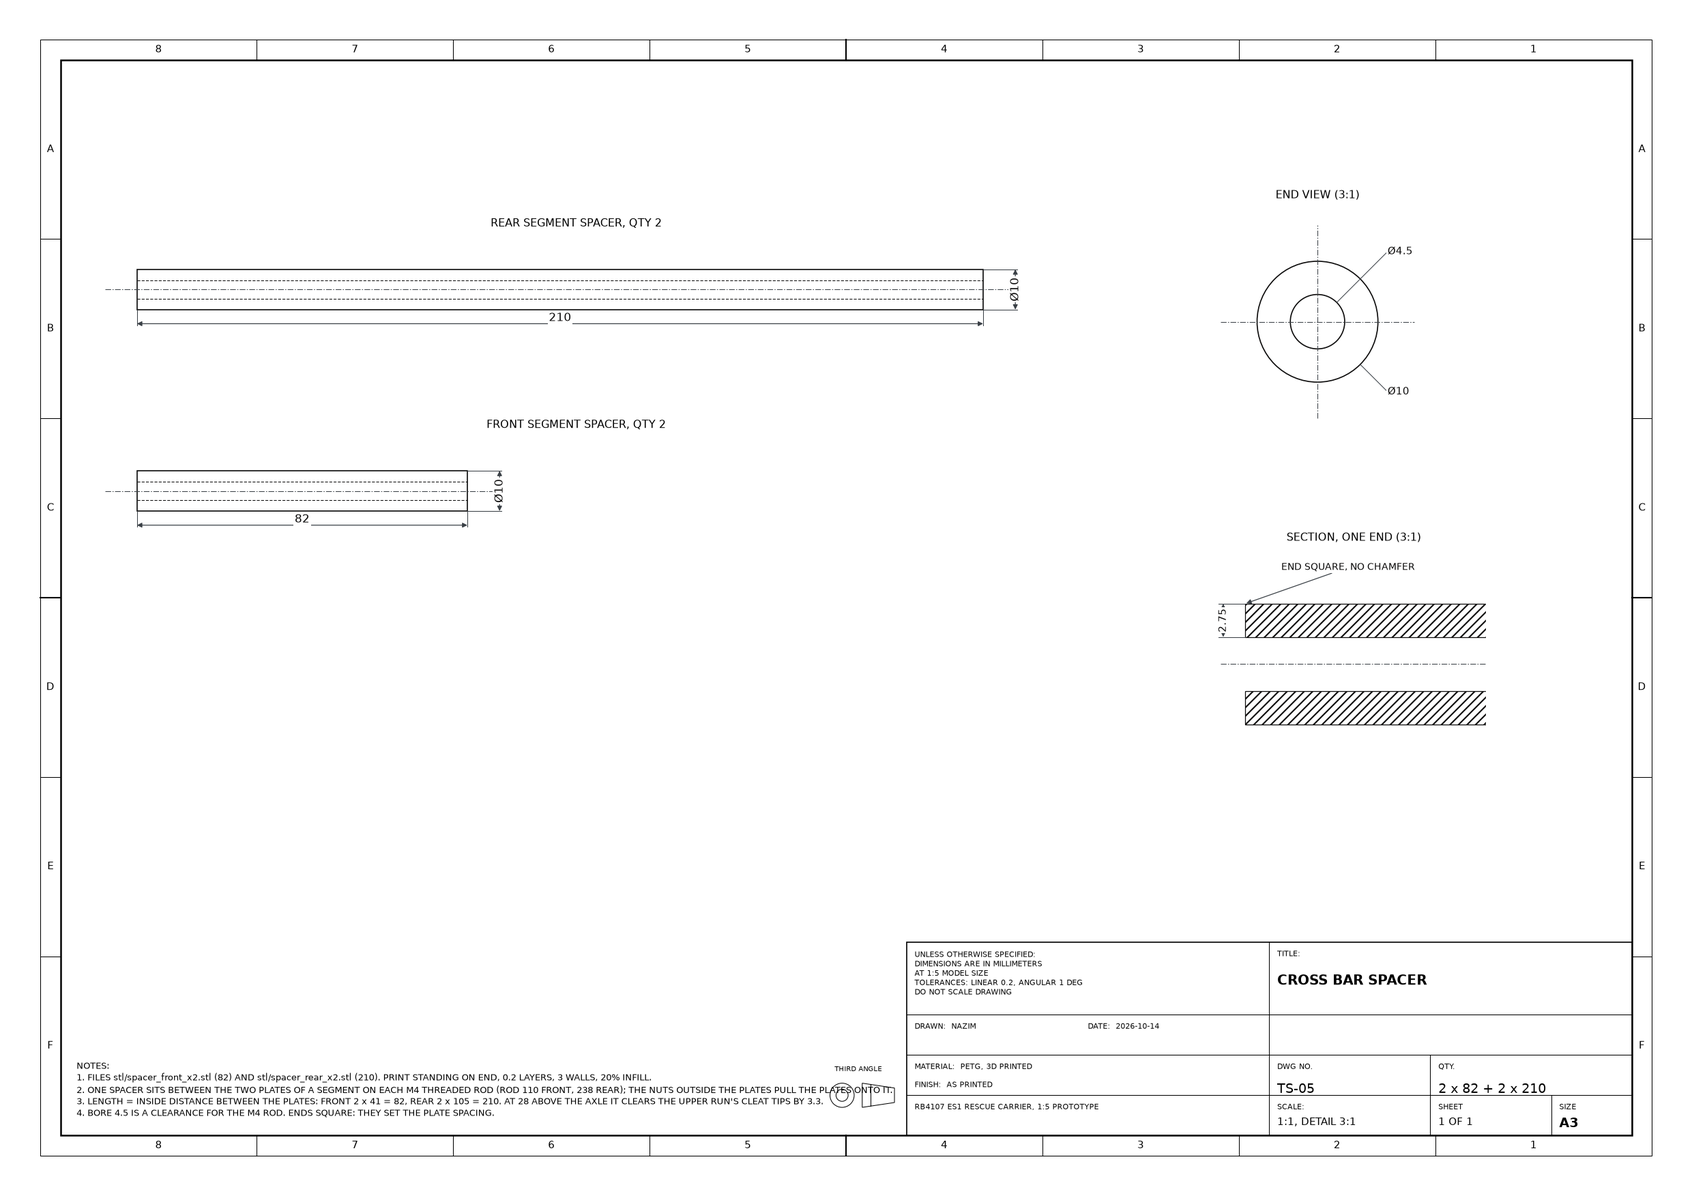
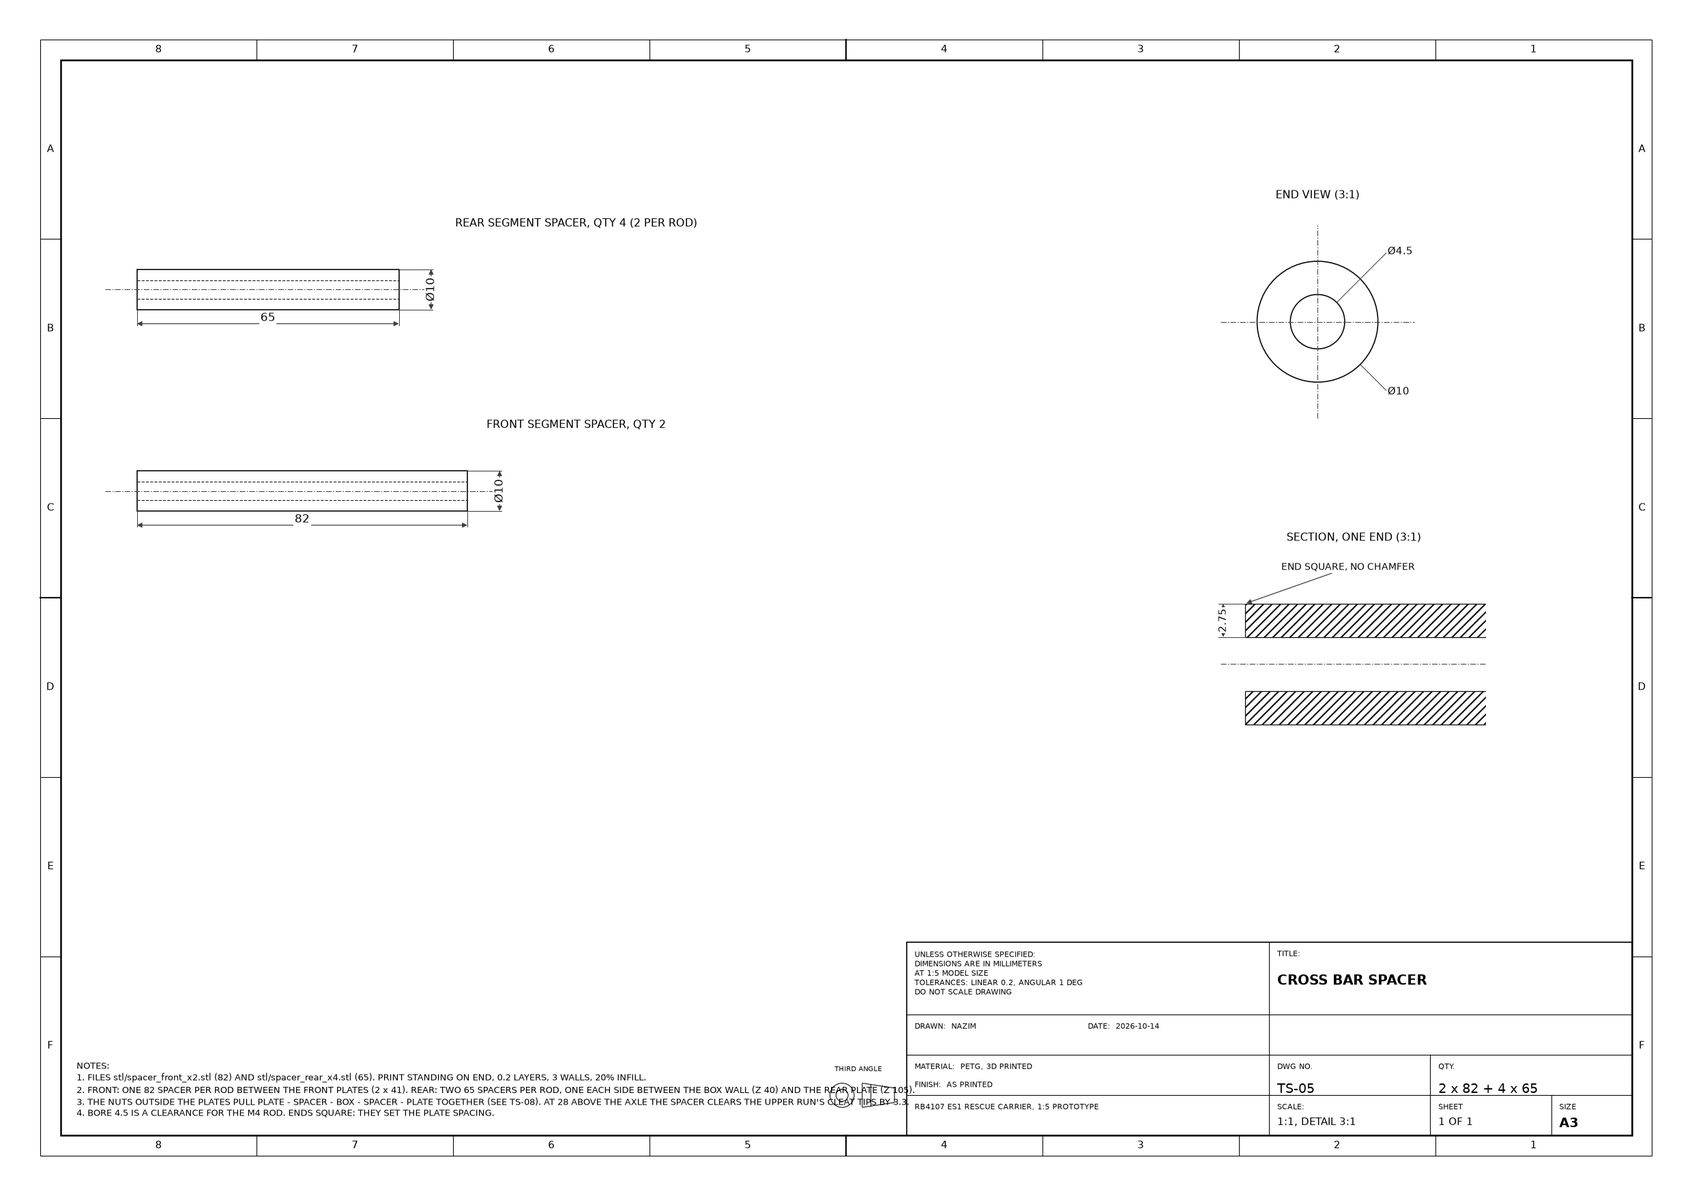
Add TS-08 rear segment to box sheet; rear spacers become 2 x 65 per rod
The box sits between the rear plates, so each rear cross-bar rod now
carries two 65 mm spacers with the box clamped between them, and the
rods themselves attach the segment to the box (no separate box bolts).
Spec, print files, TS-00/TS-05 sheets, README and procurement updated.

Claude-Session: https://claude.ai/code/session_014wM4fAmHBiJaRepdpStSox

Changed region(s): [[0.0621, 0.8933, 0.5278, 0.9241], [0.2484, 0.2156, 0.2794, 0.2772], [0.3105, 0.2464, 0.3415, 0.2772]]

diff --git a/3d_models/changi_es1_rescue_stairs/track_print/assembly/drawings/eng_sheets.py b/3d_models/changi_es1_rescue_stairs/track_print/assembly/drawings/eng_sheets.py
@@ -136,7 +136,7 @@ def sheet_assembly():
         (5, "TS-04 AXLE_FRONT", "FRONT AXLE, ROD 8 x 160", 1),
         (6, "TS-07 BEARING_608ZZ", "BALL BEARING 608ZZ, 8 x 22 x 7, BOUGHT", 4),
         (7, "TS-05 SPACER_82", "SPACER OD 10 x 82, BORE 4.5, PETG", 2),
-        (8, "M4_ROD_110", "M4 THREADED ROD x 110 + 4 NUTS + 4 WASHERS", 2),
+        (8, "M4_ROD_110", "M4 THREADED ROD x 110 + 2 NUTS + 2 WASHERS", 2),
         (9, "M3x14", "M3 x 14 BOLT + NUT, HINGE SECTOR GEAR, BOUGHT", 6),
     ]
     parts_list(bg, rows)
@@ -481,13 +481,13 @@ def sheet_axles():
 def sheet_spacer():
     od, bore = CB["front_segment"]["spacer_od_mm"], 4.5
     lf, lr = CB["front_segment"]["spacer_length_mm"], CB["rear_segment"]["spacer_length_mm"]
-    fig, view, bg = a3_sheet("CROSS BAR SPACER", "TS-05", material="PETG, 3D PRINTED", finish="AS PRINTED", qty="2 x 82 + 2 x 210", scale="1:1, DETAIL 3:1", notes=[
-        "FILES stl/spacer_front_x2.stl (82) AND stl/spacer_rear_x2.stl (210). PRINT STANDING ON END, 0.2 LAYERS, 3 WALLS, 20% INFILL.",
-        "ONE SPACER SITS BETWEEN THE TWO PLATES OF A SEGMENT ON EACH M4 THREADED ROD (ROD 110 FRONT, 238 REAR); THE NUTS OUTSIDE THE PLATES PULL THE PLATES ONTO IT.",
-        "LENGTH = INSIDE DISTANCE BETWEEN THE PLATES: FRONT 2 x 41 = 82, REAR 2 x 105 = 210. AT 28 ABOVE THE AXLE IT CLEARS THE UPPER RUN'S CLEAT TIPS BY 3.3.",
+    fig, view, bg = a3_sheet("CROSS BAR SPACER", "TS-05", material="PETG, 3D PRINTED", finish="AS PRINTED", qty="2 x 82 + 4 x 65", scale="1:1, DETAIL 3:1", notes=[
+        "FILES stl/spacer_front_x2.stl (82) AND stl/spacer_rear_x4.stl (65). PRINT STANDING ON END, 0.2 LAYERS, 3 WALLS, 20% INFILL.",
+        "FRONT: ONE 82 SPACER PER ROD BETWEEN THE FRONT PLATES (2 x 41). REAR: TWO 65 SPACERS PER ROD, ONE EACH SIDE BETWEEN THE BOX WALL (Z 40) AND THE REAR PLATE (Z 105).",
+        "THE NUTS OUTSIDE THE PLATES PULL PLATE - SPACER - BOX - SPACER - PLATE TOGETHER (SEE TS-08). AT 28 ABOVE THE AXLE THE SPACER CLEARS THE UPPER RUN'S CLEAT TIPS BY 3.3.",
         "BORE 4.5 IS A CLEARANCE FOR THE M4 ROD. ENDS SQUARE: THEY SET THE PLATE SPACING.",
     ])
-    for y, L, name in ((215, lr, "REAR SEGMENT SPACER, QTY 2"), (165, lf, "FRONT SEGMENT SPACER, QTY 2")):
+    for y, L, name in ((215, lr, "REAR SEGMENT SPACER, QTY 4 (2 PER ROD)"), (165, lf, "FRONT SEGMENT SPACER, QTY 2")):
         ax = view(22, y, (-12, 230), (-10, 12), 1.0, name)
         rect(ax, 0, -od / 2, L, od, "white")
         for yy in (bore / 2, -bore / 2):
@@ -610,10 +610,124 @@ def sheet_bearing():
     save(fig, "TS-07_bearing_608ZZ")
 
 
+# ------------------------------------------------------------------ TS-08 rear segment to base
+def sheet_rear_to_base():
+    fig, view, bg = a3_sheet("REAR SEGMENT TO THE BOX", "TS-08", material="SEE TS-00", qty="1", scale="1.5:1 SECTIONS, 1:2 SIDE", notes=[
+        "ATTACHMENT: THE REAR SEGMENT BOLTS TO THE BOX BY ITS TWO CROSS-BAR RODS (M4 x 238), NUT + WASHER EACH END:",
+        "PLATE - 65 SPACER - BOX WALL - BOX WALL - 65 SPACER - PLATE. BOX NEEDS 2 x Ø4.5 HOLES PER WALL AT X 60 AND 200, 28 ABOVE THE AXLE.",
+        "THE FRONT SEGMENT IS HELD ONLY BY THE MIDDLE AXLE (HINGE) AND THE SECTOR GEARS, SO IT CAN SWING.",
+        "ONE SIDE SHOWN (Z FROM THE CENTRE LINE), THE OTHER MIRRORS. BOX, SECTOR GEAR AND PINION: TEAM'S PARTS, DASHED.",
+    ])
+    S = 1.5
+    fz1, fzb, fz2 = lane_bands(Z["front_lane"])
+    rz1, rzb, rz2 = lane_bands(Z["rear_lane"])
+    fp, rp, fh, rh = Z["front_plate"], Z["rear_plate"], Z["front_hub"], Z["rear_hub"]
+    half = AX["lengths_mm"]["middle"] / 2
+    BOX_Z, BOX_Z_MID = 40.0, 37.0
+
+    def plate_cut(ax, z0):
+        for y0, y1 in ((-BOSS_R, -BR["outside_dia_mm"] / 2 - 0.1), (BR["outside_dia_mm"] / 2 + 0.1, ABOVE)):
+            rect(ax, z0, y0, T, y1 - y0, "white", hatch=True)
+        for sgn in (1, -1):                                   # 608 races
+            rect(ax, z0, sgn * (BR["outside_dia_mm"] / 2 - 2.2) if sgn > 0 else -BR["outside_dia_mm"] / 2, T, 2.2, "white", lw=0.5)
+            rect(ax, z0, sgn * 4 if sgn > 0 else -6.2, T, 2.2, "white", lw=0.5)
+            circle(ax, z0 + T / 2, sgn * 8.1, 1.7, fill="white", lw=0.5)
+
+    def pulley_cut(ax, b1, bb, b2, hub):
+        for sgn in (1, -1):
+            pts = [(b1[0], sgn * 4), (b1[0], sgn * FL_R), (b1[1], sgn * FL_R), (b1[1], sgn * PU_OD_R), (b2[0], sgn * PU_OD_R), (b2[0], sgn * FL_R),
+                   (b2[1], sgn * FL_R), (b2[1], sgn * HUB_R), (hub[1], sgn * HUB_R), (hub[1], sgn * 4)]
+            ax.add_patch(Polygon(pts, closed=True, fc="white", ec=INK, lw=0.7, hatch="////", zorder=3))
+            rect(ax, bb[0], sgn * R_TOOTH if sgn > 0 else -R_TIP, TRK_W, R_TIP - R_TOOTH, "white", hatch=True, zorder=4)   # track wrapped on the pulley
+        for k in range(1, 4):                                 # cleats on the top run
+            x = bb[0] + 2 + k * 3.5
+            ax.plot([x, x], [R_FACE, R_TIP], color=INK, lw=0.3)
+
+    # ---- SECTION A-A through the middle axle
+    ax = view(20, 160, (-8, 124), (-28, 46), S, "SECTION A-A THROUGH THE MIDDLE AXLE (HINGE), 1.5:1")
+    rect(ax, 0, -4, half + 3, 8, "white", lw=0.7, zorder=5)                                            # axle (not hatched: solid shaft)
+    hidden_rect(ax, 0, 6, BOX_Z_MID, 28)
+    ax.text(18, 20, "BOX (REF)\nSTOPS AT Z 37 HERE", fontsize=6, ha="center", va="center")
+    hidden_rect(ax, 38, -25, 3, 50)
+    ax.text(39.5, -26.5, "SECTOR GEAR 3 THICK (REF)", fontsize=5.5, ha="center", va="top", rotation=0)
+    plate_cut(ax, fp[0])
+    pulley_cut(ax, fz1, fzb, fz2, fh)
+    pulley_cut(ax, rz1, rzb, rz2, rh)
+    plate_cut(ax, rp[0])
+    rect(ax, fp[0], 0, T, 0, "white")  # no-op keeps order
+    for z in (fp[0] + 3.5, rp[0] + 3.5):                                                                 # M3 sector bolt (front plate) / nothing on rear
+        pass
+    rect(ax, 38, 15, 10, 3.4, "white", lw=0.5, zorder=6)                                                 # M3 x 14 through sector gear + plate, nut outboard
+    rect(ax, 48, 14.5, 2.4, 4.4, "white", lw=0.5, zorder=6)
+    leader(ax, (43, 18.4), (2, 8), "M3 x 14 + NUT, 3 PER PLATE, ON R17\n(SECTOR GEAR TO FRONT PLATE)", fontsize=6)
+    centreline(ax, -6, 0, 122, 0)
+    y0 = -26
+    for (z0, z1), lab in ((fp, "7"), (Z["front_lane"], "20"), (Z["rear_lane"], "20"), (rp, "7")):
+        dim_h(ax, z0, z1, y0, lab, ext_from=-R_TIP - 1, fontsize=6.5)
+    dim_h(ax, 0, BOX_Z, 37, "40 BOX", ext_from=34, fontsize=6.5)
+    dim_h(ax, 0, rzb[1], 40.5, "97 (194 OVER TRACKS)", ext_from=R_TIP, fontsize=6.5)
+    dim_h(ax, 0, rp[1], 44.5, "112 (224 OVER PLATES)", ext_from=ABOVE, fontsize=6.5)
+    for z, t in ((fz1[0], "49"), (fz2[1], "69"), (rz1[0], "77"), (rz2[1], "97"), (rp[0], "105")):
+        ax.text(z, -R_TIP - 2.2, t, fontsize=5, ha="center", va="top")
+    leader(ax, (fzb[0] + 7, R_TIP), (54, 31), "TRACK ON ITS PULLEY", fontsize=6)
+    leader(ax, (rh[1] - 2, HUB_R), (104, 30), "SET SCREW HUB", fontsize=6)
+    leader(ax, (rp[0] + 3.5, BR["outside_dia_mm"] / 2 - 1), (100, -22), "608ZZ IN THE PLATE", fontsize=6)
+
+    # ---- SECTION B-B through the rear cross bar (x = 60 from the rear axle)
+    ax = view(20, 40, (-8, 124), (-28, 46), S, "SECTION B-B THROUGH A REAR CROSS BAR (X 60 FROM THE REAR AXLE), 1.5:1")
+    rail_z = ((Z["rear_lane"][0] + Z["rear_lane"][1]) / 2 - RW / 2, (Z["rear_lane"][0] + Z["rear_lane"][1]) / 2 + RW / 2)
+    rect(ax, rp[0], -BELOW, T, BELOW + ABOVE, "white", hatch=True)                                         # rear plate
+    rect(ax, rail_z[1], -RBOT, rp[1] - rail_z[1], RBOT - BELOW, "white", hatch=True)                       # web
+    rect(ax, rail_z[0], -RBOT, RW, RT, "white", hatch=True)                                                # rail
+    for yy0 in (R_TOOTH, -R_TIP):                                                                          # track upper and lower runs, cut
+        rect(ax, rzb[0], yy0, TRK_W, R_TIP - R_TOOTH, "white", hatch=True, zorder=4)
+    hidden_rect(ax, 0, 6, BOX_Z, 38)
+    ax.text(20, 12, "BOX (REF)", fontsize=6, ha="center")
+    yb = CBH["above_axle_mm"]
+    rect(ax, 0, yb - 2, CB["rear_segment"]["rod_length_mm"] / 2, 4, "white", lw=0.6, zorder=5)             # rod (solid)
+    rect(ax, BOX_Z, yb - 5, CB["rear_segment"]["spacer_length_mm"], 10, "white", hatch=True, zorder=4)     # 65 spacer, cut
+    rect(ax, BOX_Z, yb - 2.25, CB["rear_segment"]["spacer_length_mm"], 4.5, "white", lw=0.4, zorder=5)
+    rect(ax, rp[1], yb - 4.5, 0.8, 9, "white", lw=0.5, zorder=6)                                           # washer
+    rect(ax, rp[1] + 0.8, yb - 3.5, 3.2, 7, "white", lw=0.5, zorder=6)                                     # nut
+    rect(ax, BOX_Z - 2, yb - 2.25, 2, 4.5, "white", lw=0.4, zorder=5)                                      # hole in the box wall
+    centreline(ax, -6, 0, 122, 0)
+    dim_v(ax, 0, yb, 120, "28", fontsize=6.5)
+    dim_h(ax, BOX_Z, rp[0], yb + 8, "65 SPACER", ext_from=yb + 5, fontsize=6.5)
+    dim_h(ax, 0, CB["rear_segment"]["rod_length_mm"] / 2, yb + 15, "119 (ROD 238)", ext_from=yb + 2, fontsize=6.5)
+    dim_h(ax, rail_z[0], rail_z[1], -RBOT - 4, "18 RAIL", ext_from=-RBOT, fontsize=6.5)
+    dim_v(ax, -RTOP, 0, rail_z[0] - 4, "13.34", fontsize=6.5)
+    leader(ax, (rzb[0] + 7, -R_TOOTH - 3), (50, -24), "LOWER RUN RIDES ON THE RAIL", fontsize=6)
+    leader(ax, (rp[1] + 2.4, yb + 3.5), (100, 42), "M4 NUT + WASHER", fontsize=6)
+    leader(ax, (BOX_Z - 1, yb + 2.25), (12, 36), "Ø4.5 HOLE IN THE BOX WALL", fontsize=6)
+
+    # ---- SIDE VIEW of the rear segment on the box, 1:2
+    ax = view(232, 120, (-60, 290), (-50, 100), 0.5, "SIDE VIEW, REAR SEGMENT ON THE BOX (FROM OUTBOARD), 1:2")
+    shape_patch(ax, plate_shape(), zorder=1)
+    track_side(ax, zorder=3)
+    for x in (0, C):
+        circle(ax, x, 0, FL_R, fill="white", lw=0.6, zorder=4)
+        circle(ax, x, 0, HUB_R, fill="white", lw=0.6, zorder=5)
+        circle(ax, x, 0, 4, fill="white", lw=0.6, zorder=6)
+        centre_mark(ax, x, 0, 26)
+    for x in CBH["at_x_mm"]:
+        hex_nut(ax, x, CBH["above_axle_mm"])
+    hidden_rect(ax, -30, 6, C + 60, 80)
+    ax.text(100, 70, "BOX (REF), BOLTED THROUGH THE TWO CROSS BARS", fontsize=6, ha="center")
+    hidden_circle(ax, C, 0, 25)
+    ax.text(C, 48, "FRONT SEGMENT HINGES HERE\n(MIDDLE AXLE)", fontsize=5.5, ha="center", va="bottom")
+    centreline(ax, -40, 0, C + 40, 0)
+    section_mark(ax, C, -40, 95, "A", side=1)
+    section_mark(ax, CBH["at_x_mm"][0], -40, 95, "B", side=-1)
+    dim_h(ax, 0, CBH["at_x_mm"][0], -34, "60", ext_from=-22, fontsize=6.5)
+    dim_h(ax, 0, CBH["at_x_mm"][1], -42, "200", ext_from=-22, fontsize=6.5)
+    ax.text(-55, -48, "REAR AXLE AT X 0, MIDDLE AXLE AT X 225", fontsize=6, va="bottom")
+    save(fig, "TS-08_rear_segment_to_base")
+
+
 if __name__ == "__main__":
     which = sys.argv[1:] or ["all"]
     fns = dict(assembly=sheet_assembly, track=sheet_track, front=lambda: sheet_side_plate(True), rear=lambda: sheet_side_plate(False),
-               axles=sheet_axles, spacer=sheet_spacer, pulley=sheet_pulley, bearing=sheet_bearing)
+               axles=sheet_axles, spacer=sheet_spacer, pulley=sheet_pulley, bearing=sheet_bearing, base=sheet_rear_to_base)
     for k, f in fns.items():
         if "all" in which or k in which:
             f()

diff --git a/3d_models/changi_es1_rescue_stairs/track_print/generate_frame.py b/3d_models/changi_es1_rescue_stairs/track_print/generate_frame.py
@@ -218,8 +218,8 @@ def build_parts(f: Frame) -> dict:
                 "process": "3D print, plate face down, rail standing up, 0.2 mm layers, 4 walls, 30% infill, no supports",
                 "print_orientation": "plate face on the bed (its %s face, z = %g), rail standing up" % ("inboard" if segment == "front" else "outboard", abs(face)),
             })
-    for segment, length in (("front", f.spacer_len_front), ("rear", f.spacer_len_rear)):
-        parts[f"spacer_{segment}_x2"] = (spacer(f, length), {
+    for segment, length, n in (("front", f.spacer_len_front, 2), ("rear", f.spacer_len_rear, 4)):
+        parts[f"spacer_{segment}_x{n}"] = (spacer(f, length), {
             "qty": 2, "material": "PETG", "make_or_buy": "make",
             "process": "3D print, standing on end, 0.2 mm layers, 3 walls, no supports",
             "print_orientation": "standing, axis vertical",
@@ -407,7 +407,7 @@ def preview(f: Frame, g: gt.Geometry, report: dict, stl: Path, out: Path):
         rect = [0.02 + col * 0.49, 0.725 - row * 0.215, 0.47, 0.18]
         panel(rect, trimesh.load(stl / f"{name}.stl"), C["petg"], f"{title}: {name}.stl", f"{size_text(name)}. {sub}")
 
-    sp_f, sp_r = trimesh.load(stl / "spacer_front_x2.stl"), trimesh.load(stl / "spacer_rear_x2.stl")
+    sp_f, sp_r = trimesh.load(stl / "spacer_front_x2.stl"), trimesh.load(stl / "spacer_rear_x4.stl")
     sp_f.apply_translation((-22, 0, 0))
     panel([0.02, 0.10, 0.13, 0.30], trimesh.util.concatenate([sp_f, sp_r]), C["spacer"], "Spacers",
           f"front {f.spacer_len_front:g} long (x2), rear {f.spacer_len_rear:g} long (x2)\nOD {f.spacer_od:g}, bore {f.spacer_bore:g}, printed standing", elev=18, azim=100)

diff --git a/3d_models/changi_es1_rescue_stairs/track_print/assembly/procurement.md b/3d_models/changi_es1_rescue_stairs/track_print/assembly/procurement.md
@@ -24,7 +24,7 @@ through the EDIC request form.
 |---|---|---|---|---|
 | Track | 4 | 3D print, TPU 95A, standing, 100% infill, 0.2 mm, no supports. File `stl/track_TPU_x4.stl` | Fab Lab UP300 (TPU head) | A toothed flexible belt with step-matched cleats on the outside; no stock belt has the cleats, and the cleat pitch (12.22 mm) is set by the ES1 step size. |
 | Side plate, front L and R, rear L and R | 4 | **Option A:** 3D print PETG, flat, 4 walls, 30% infill. Files `stl/side_plate_{front,rear}_{L,R}.stl`. **Option B:** CNC-mill from 7 mm aluminium plate to sheets TS-02 / TS-03 (the drawings are made for this). | A: Fab Lab UP600 or UP300. B: Professional Workshop, by request form | One part carries the two bearing pockets, the slide rail under the lower track run and all holes; a cut sheet would need the rail and bearing housings as extra parts. |
-| Cross bar spacer, 82 and 210 | 2 + 2 | 3D print PETG (`stl/spacer_*.stl`), or cut from Ø10 aluminium tube with a 4.5 bore on the lathe | Fab Lab, or Training Workshop with the plates | Non-standard lengths (82, 210) set the plate spacing. |
+| Cross bar spacer, 82 (front) and 65 (rear) | 2 + 4 | 3D print PETG (`stl/spacer_front_x2.stl`, `stl/spacer_rear_x4.stl`), or cut from Ø10 aluminium tube with a 4.5 bore on the lathe | Fab Lab, or Training Workshop with the plates | Non-standard lengths set the plate spacing; the rear ones sit between the box wall and the plate. |
 | Stand-in pulley, PLA, test only | 1 | 3D print PLA (`stl/stand_in_pulley_20T_PLA_test_only.stl`) | Fab Lab, Tinkering Corner or NUS Library | Fit test of the printed teeth before the bought pulleys arrive. |
 
 If printing is the hassle: **Option B for the plates** moves the biggest print (4 x 5 h) to the
@@ -60,10 +60,9 @@ segment** (fixed to the box, plates outboard). They share the middle axle.
 | - | Rear side plate | 2 | 1 left + 1 right |
 | 6 | Bearing 608ZZ | 4 | 2 per plate |
 | - | Rear axle Ø8 x 230 | 1 | |
-| - | Spacer Ø10 x 210 | 2 | |
-| - | M4 threaded rod x 238 | 2 | the same two rods also bolt the box: plate - box - plate |
-| - | M4 nut + washer | 4 + 4 | |
-| - | M4 x 12 bolt | 4 | box to the rear plates (team's box) |
+| - | Spacer Ø10 x 65 | 4 | two per rod, one each side between the box wall (z 40) and the plate (z 105) |
+| - | M4 threaded rod x 238 | 2 | **these are what bolt the segment to the box**: plate - spacer - box wall - box wall - spacer - plate (sheet TS-08) |
+| - | M4 nut + washer | 4 + 4 | one each end of each rod |
 | - | M4 set screw | 8 | |
 
 ### Shared
@@ -83,11 +82,10 @@ segment** (fixed to the box, plates outboard). They share the middle axle.
 | Side plate | 4 (2 front L/R + 2 rear L/R) | make |
 | Bearing 608ZZ | 10 | buy (2 packs of 5) |
 | Ø8 rod, cut to 230 + 230 + 160 + 120 = 740 mm | 2 x 400 mm | buy (or Design Lab spare) |
-| Spacer | 4 (2 x 82, 2 x 210) | make |
+| Spacer | 6 (2 x 82, 4 x 65) | make |
 | M4 threaded rod, cut to 110 + 110 + 238 + 238 = 696 mm | 1 x 1 m | buy |
 | M4 nut / M4 washer | 8 / 8 | buy or Design Lab spares |
 | M3 x 14 bolt + nut | 6 + 6 | buy or spares |
-| M4 x 12 bolt | 4 | buy or spares |
 | M4 set screw (M4 x 4 or x 5, cup point) | 16 | buy with the pulleys |
 | Stand-in pulley, PLA | 1 | make |
 
@@ -103,13 +101,17 @@ segment** (fixed to the box, plates outboard). They share the middle axle.
    track over the two left pulleys (TPU stretches a little; walk it on like a bicycle chain). Then
    slide the right plate on and loop the right track. Doing the track before the outer plate is
    what makes it possible.
-4. **Cross bars.** Push an M4 rod through the Ø4.5 hole in one plate, slide the spacer on, through
-   the other plate; washer and nut each end, tighten until the plates sit flat on the spacer. Two
-   per segment, at x 60 and 200 from the rear axle of that segment.
+4. **Cross bars.** Front segment: M4 rod through one plate, the 82 spacer, the other plate; washer
+   and nut each end. Rear segment: the same rods also hold the box. Rod through the plate, a 65 spacer,
+   through the box wall, across the box, out the other wall, the second 65 spacer, the other plate;
+   washer and nut each end, tightened until plates, spacers and box are clamped as one. Two per
+   segment, at x 60 and 200 from the rear axle, 28 above the axle line. The box needs two Ø4.5 holes
+   through each wall at those positions (sheet TS-08).
 5. **Check:** turn the middle axle by hand, both tracks run without clicking; the lower run rests on
    the slide rails.
-6. **Hinge and box (team's parts).** Sector gears bolt to the inboard face of the front plates with
-   the six M3 x 14; the box bolts to the rear plates with the four M4 x 12 through the cross-bar holes.
+6. **Hinge (team's parts).** Sector gears bolt to the inboard face of the front plates with the six
+   M3 x 14 and nuts (7 plate + 3 gear + nut). The front segment is held to the box only by the middle
+   axle and these gears, so it can swing; nothing else is bolted.
 
 ## 5. Buy list with links
 
@@ -120,7 +122,7 @@ segment** (fixed to the box, plates outboard). They share the middle axle.
 | Bearing | 608ZZ (608-2Z/C3), 8 x 22 x 7, shielded | [RS SG pack of 5, 261-2603](https://sg.rs-online.com/web/p/ball-bearings/2612603) | S$14.82 per pack | 2 packs | next working day (order before 3:30 pm), max 4 working days |
 | Ø8 rod | 8 mm x 400 mm steel shaft; hardened, so grind the flats (Dremel), or buy soft rod from a hardware shop on the vendor list | Design Lab spare first; else [RS SG linear shafts](https://sg.rs-online.com/web/c/bearings-seals/linear-motion/linear-shafts/) | S$37 each at RS; ~S$5 at a hardware shop | 2 | next working day / same day |
 | M4 rod | stainless M4 x 1 m, DIN 975 | [RS SG 200-9958](https://sg.rs-online.com/web/p/products/2009958) (pack of 5, S$49.69) or one rod from a hardware shop | S$10 per rod | 1 | 4 working days / same day |
-| Nuts, washers, bolts | M4 nuts x 8, M4 washers x 8, M3 x 14 + nuts x 6, M4 x 12 x 4 | Design Lab spares; else [Element14 SG nuts](https://sg.element14.com/c/fasteners-mechanical/fasteners-fixings/nuts/hex-nuts) and RS SG | S$0 to S$15 | 26 | 1-2 business days |
+| Nuts, washers, bolts | M4 nuts x 8, M4 washers x 8, M3 x 14 + nuts x 6 | Design Lab spares; else [Element14 SG nuts](https://sg.element14.com/c/fasteners-mechanical/fasteners-fixings/nuts/hex-nuts) and RS SG | S$0 to S$15 | 22 | 1-2 business days |
 | TPU filament | TPU 95A, 1.75 mm, 1 kg (4 tracks use about 130 g) | [Element14 SG, Multicomp Pro](https://sg.element14.com/multicomp-pro/mc011460/3d-printer-filament-tpu-1-75mm/dp/3021512), or the Fab Lab's own stock | ~S$45 | 1 | 1-2 business days |
 
 **Totals:** about S$160 of Singapore-priced parts (bearings, rod, M4 rod, nuts), about S$45 with

diff --git a/3d_models/changi_es1_rescue_stairs/track_print/README.md b/3d_models/changi_es1_rescue_stairs/track_print/README.md
@@ -113,9 +113,10 @@ title block, parts list and balloons on the assembly:
 | `TS-05_spacer.png` | cross bar spacers 82 and 210 |
 | `TS-06_pulley_20T.png` | bought HTD 5M 20T pulley: front view and section 2:1, order spec |
 | `TS-07_bearing_608ZZ.png` | bought 608ZZ: front view, section, fitted in the plate pocket |
+| `TS-08_rear_segment_to_base.png` | cut through the middle axle (box, hinge gear, plates, pulleys, tracks side by side), cut through a rear cross bar (track on rail, box clamped between the plates), side view of the rear segment on the box |
 
 `buy_vs_make.md` lists every part with where to get it. `generate_frame.py` makes the plate and
-spacer print files (`stl/side_plate_*.stl`, `stl/spacer_*.stl`) from the spec.
+spacer print files (`stl/side_plate_*.stl`, `stl/spacer_front_x2.stl`, `stl/spacer_rear_x4.stl`) from the spec.
 
 Layout (v2): per side from the centre line, box to 40 | front plate 41-48 | front track 49-69 |
 rear track 77-97 | rear plate 105-112; 194 mm over the tracks. Bearings are 608ZZ pressed into
